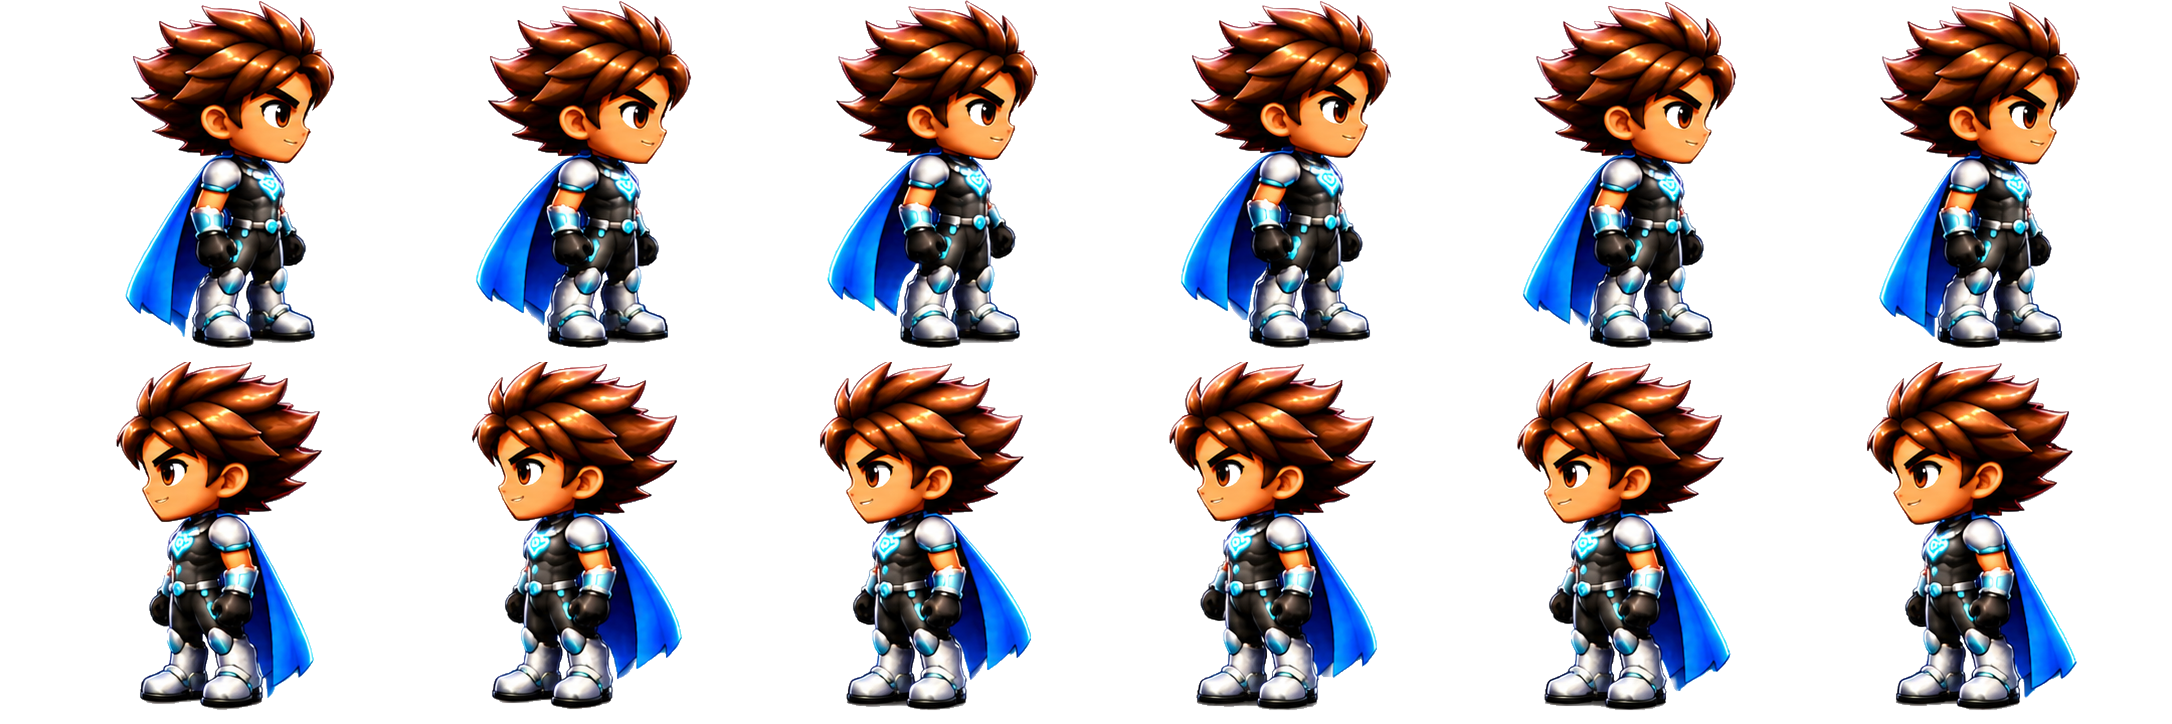
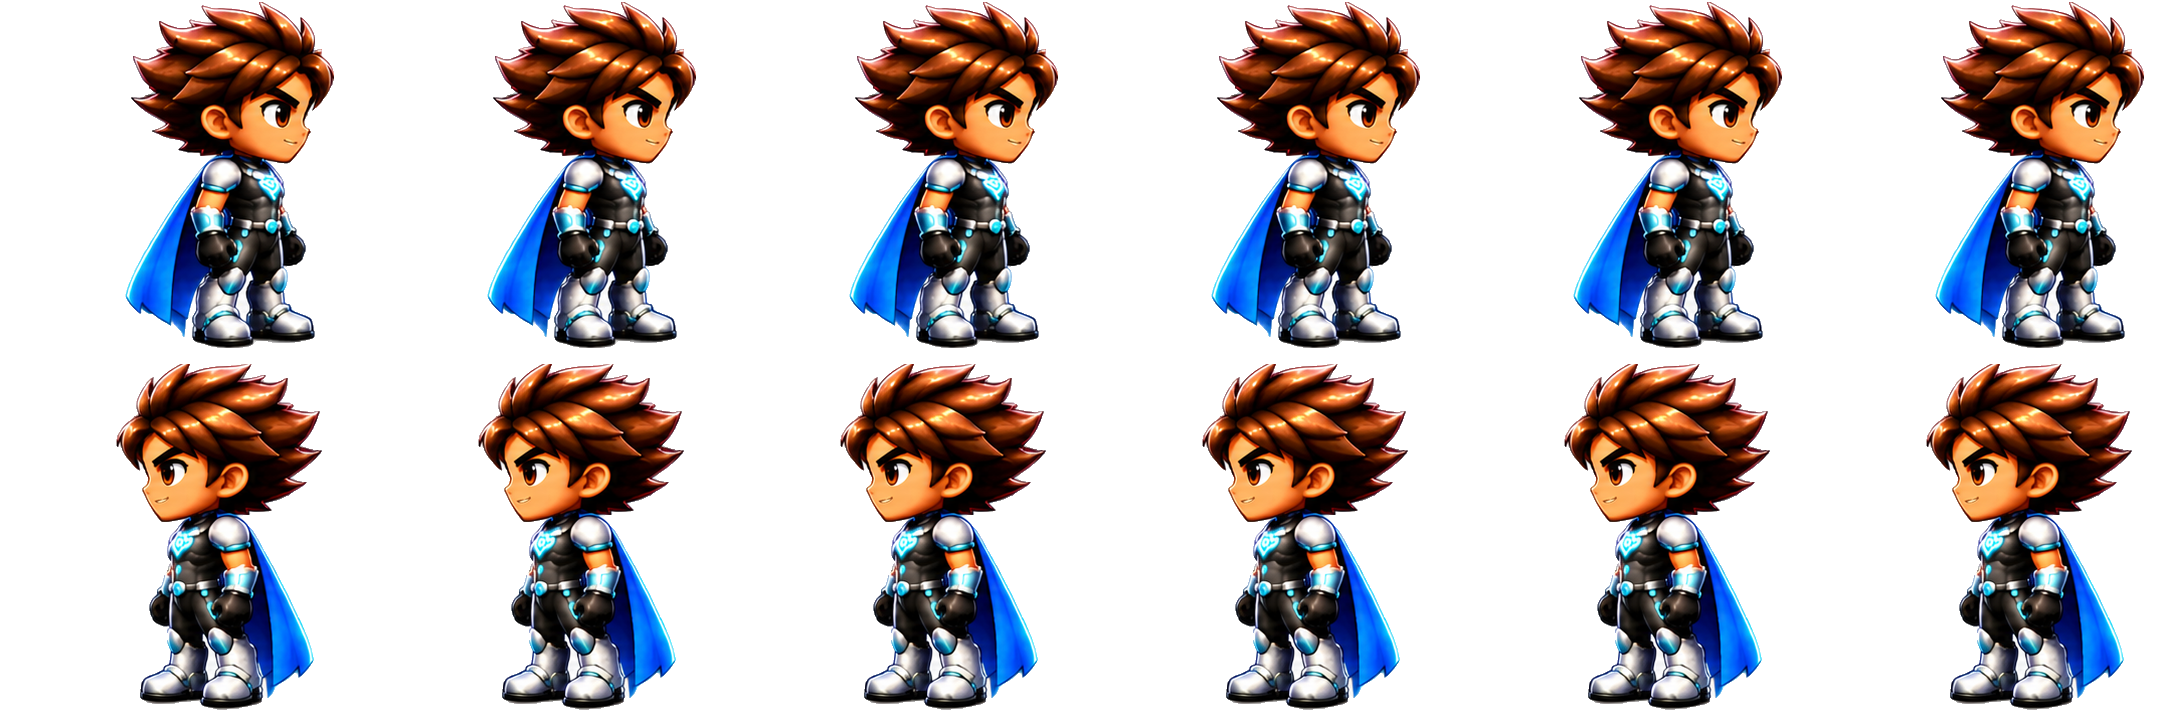
Fix Action Chibi idle eye whites and eliminate frame drift

diff --git a/royale-v3-staging/character-test/index.html b/royale-v3-staging/character-test/index.html
@@ -1,3 +1,3 @@
 <!doctype html><html lang="en"><head><meta charset="utf-8"><meta name="viewport" content="width=device-width,initial-scale=1,viewport-fit=cover"><title>Action Chibi Idle · Test 0000000000</title><style>
-:root{color-scheme:dark;font-family:system-ui,sans-serif;background:#071429;color:#eaf6ff}*{box-sizing:border-box}body{margin:0;min-height:100dvh;display:flex;flex-direction:column;align-items:center;justify-content:center;gap:12px;padding:16px}h1{font-size:clamp(18px,4vw,28px);margin:0;text-align:center}p{margin:0;color:#adc4df;text-align:center}.stage{width:min(94vw,750px);height:min(56vh,430px);min-height:250px;border:1px solid #316ba0;border-radius:18px;background:radial-gradient(ellipse at 50% 80%,#173e67,#08172e 70%);position:relative;overflow:hidden;display:grid;place-items:center}.floor{position:absolute;bottom:12%;width:100%;height:2px;background:#53a4ed;opacity:.55}.sprite{position:absolute;bottom:12%;width:min(62vw,300px,45vh);aspect-ratio:1;background-image:url('./idle-atlas.png?v=chibi-idle-1');background-repeat:no-repeat;background-size:600% 200%;background-position:0% 0%;image-rendering:auto}.controls{display:flex;gap:12px;flex-wrap:wrap;justify-content:center}button{background:#163f6b;border:1px solid #5bbcff;border-radius:12px;padding:12px 20px;color:white;font-size:17px;min-width:110px;touch-action:manipulation}button[aria-pressed=true]{background:#236ca6}.info{font-variant-numeric:tabular-nums;color:#d8ebff}a{color:#93d3ff}small{color:#9ab3cf;text-align:center;max-width:620px}
-</style></head><body><h1>Action Chibi · Idle Animation</h1><p>Isolated test character 0000000000 · no cloud saves</p><div class="stage" aria-label="Idle sprite preview"><div class="floor"></div><div id="sprite" class="sprite" role="img" aria-label="Action Chibi facing right"></div></div><div class="controls"><button id="left">◀ Face left</button><button id="right" aria-pressed="true">Face right ▶</button><button id="pause">Pause</button></div><p class="info" id="info">Loading sprite atlas…</p><small>Keyboard: ← / → face direction · Space pause. Full-body idle frames only; no independent limb rigs. Other heroes and saves are untouched.</small><script type="module" src="./idle-preview.mjs?v=chibi-idle-1"></script></body></html>
+:root{color-scheme:dark;font-family:system-ui,sans-serif;background:#071429;color:#eaf6ff}*{box-sizing:border-box}body{margin:0;min-height:100dvh;display:flex;flex-direction:column;align-items:center;justify-content:center;gap:12px;padding:16px}h1{font-size:clamp(18px,4vw,28px);margin:0;text-align:center}p{margin:0;color:#adc4df;text-align:center}.stage{width:min(94vw,750px);height:min(56vh,430px);min-height:250px;border:1px solid #316ba0;border-radius:18px;background:radial-gradient(ellipse at 50% 80%,#173e67,#08172e 70%);position:relative;overflow:hidden;display:grid;place-items:center}.floor{position:absolute;bottom:12%;width:100%;height:2px;background:#53a4ed;opacity:.55}.sprite{position:absolute;bottom:12%;width:min(62vw,300px,45vh);aspect-ratio:1;background-image:url('./idle-atlas.png?v=chibi-idle-2');background-repeat:no-repeat;background-size:600% 200%;background-position:0% 0%;image-rendering:auto}.controls{display:flex;gap:12px;flex-wrap:wrap;justify-content:center}button{background:#163f6b;border:1px solid #5bbcff;border-radius:12px;padding:12px 20px;color:white;font-size:17px;min-width:110px;touch-action:manipulation}button[aria-pressed=true]{background:#236ca6}.info{font-variant-numeric:tabular-nums;color:#d8ebff}a{color:#93d3ff}small{color:#9ab3cf;text-align:center;max-width:620px}
+</style></head><body><h1>Action Chibi · Idle Animation</h1><p>Isolated test character 0000000000 · no cloud saves</p><div class="stage" aria-label="Idle sprite preview"><div class="floor"></div><div id="sprite" class="sprite" role="img" aria-label="Action Chibi facing right"></div></div><div class="controls"><button id="left">◀ Face left</button><button id="right" aria-pressed="true">Face right ▶</button><button id="pause">Pause</button></div><p class="info" id="info">Loading sprite atlas…</p><small>Keyboard: ← / → face direction · Space pause. Full-body idle frames only; no independent limb rigs. Other heroes and saves are untouched.</small><script type="module" src="./idle-preview.mjs?v=chibi-idle-2"></script></body></html>
